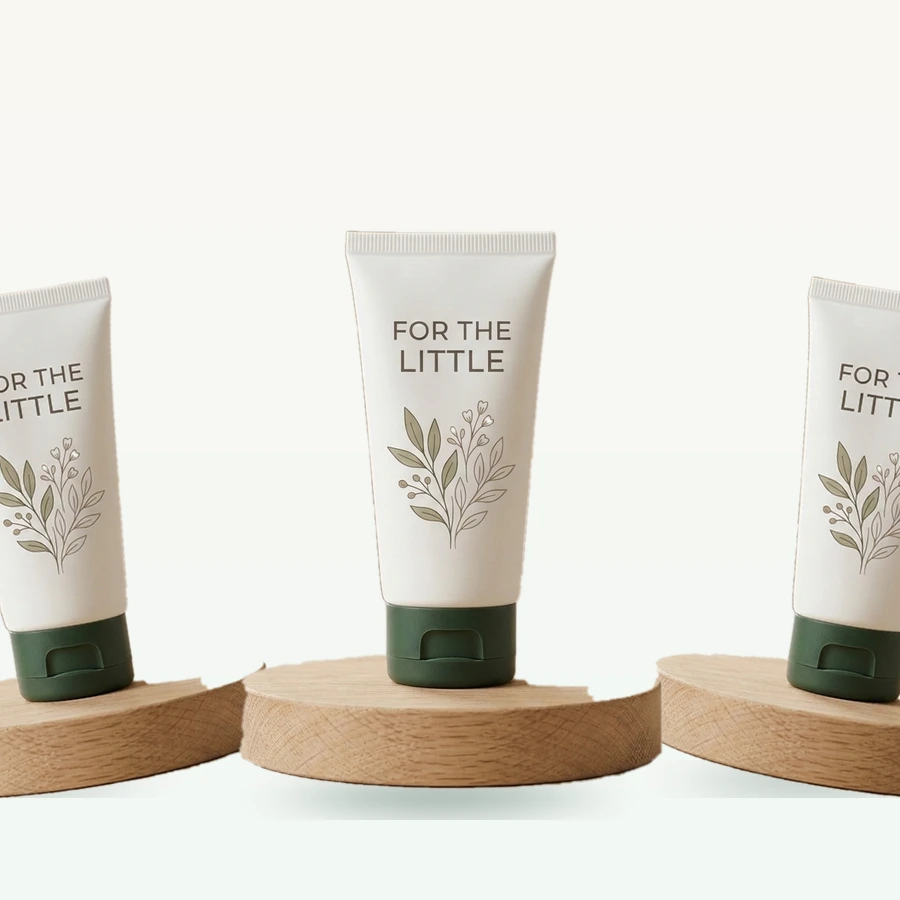
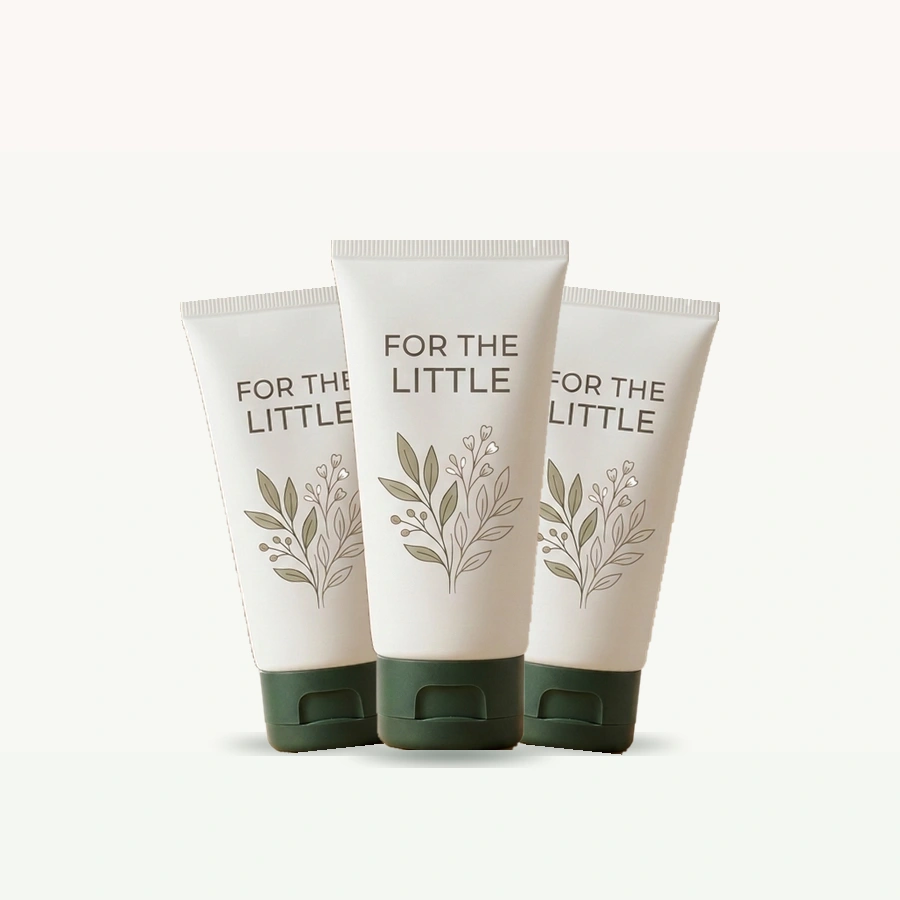
fix(images): remove wooden base remnants and use object-contain so all bundle tubes are 100% fully visible without cutoff

diff --git a/index.php b/index.php
@@ -415,9 +415,9 @@ require_once __DIR__ . '/includes/navbar.php';
 
                     <!-- Packshot Image -->
                     <div class="h-36 sm:h-44 flex items-center justify-center my-3 relative overflow-hidden">
-                        <img src="<?= BASE_URL ?>assets/images/product-calming-rub-real.webp" 
+                        <img src="<?= BASE_URL ?>assets/images/product-calming-rub-real.webp?v=<?= filemtime(__DIR__ . '/assets/images/product-calming-rub-real.webp') ?>" 
                              alt="Baby Calming Rub Cream 50g" 
-                             class="max-h-32 sm:max-h-40 w-auto rounded-2xl object-cover group-hover:scale-105 transition-transform duration-300 shadow-md">
+                             class="max-h-32 sm:max-h-40 w-auto rounded-2xl object-contain group-hover:scale-105 transition-transform duration-300 drop-shadow-sm">
                     </div>
 
                     <!-- Info -->
@@ -459,7 +459,7 @@ require_once __DIR__ . '/includes/navbar.php';
                     <div class="h-36 sm:h-44 flex items-center justify-center my-3 relative overflow-hidden">
                         <img src="<?= BASE_URL ?>assets/images/product-bundle-2-real.webp?v=<?= filemtime(__DIR__ . '/assets/images/product-bundle-2-real.webp') ?>" 
                              alt="Bundle Double Care (2x 50g)" 
-                             class="max-h-32 sm:max-h-40 w-auto rounded-2xl object-cover group-hover:scale-105 transition-transform duration-300 shadow-md">
+                             class="max-h-32 sm:max-h-40 w-auto rounded-2xl object-contain group-hover:scale-105 transition-transform duration-300 drop-shadow-sm">
                     </div>
 
                     <!-- Info -->
@@ -501,7 +501,7 @@ require_once __DIR__ . '/includes/navbar.php';
                     <div class="h-36 sm:h-44 flex items-center justify-center my-3 relative overflow-hidden">
                         <img src="<?= BASE_URL ?>assets/images/product-bundle-3-real.webp?v=<?= filemtime(__DIR__ . '/assets/images/product-bundle-3-real.webp') ?>" 
                              alt="Bundle Triple Care (3x 50g)" 
-                             class="max-h-32 sm:max-h-40 w-auto rounded-2xl object-cover group-hover:scale-105 transition-transform duration-300 shadow-md">
+                             class="max-h-32 sm:max-h-40 w-auto rounded-2xl object-contain group-hover:scale-105 transition-transform duration-300 drop-shadow-sm">
                     </div>
 
                     <!-- Info -->
